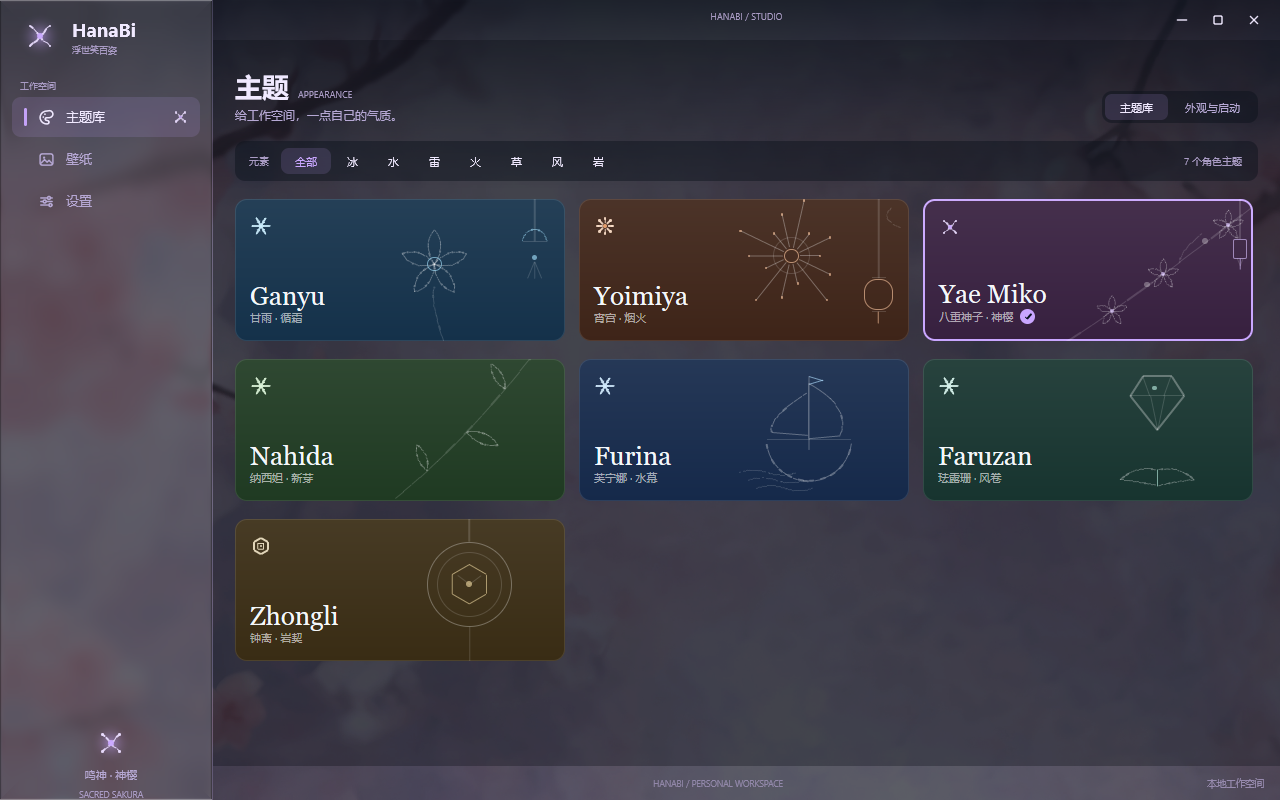
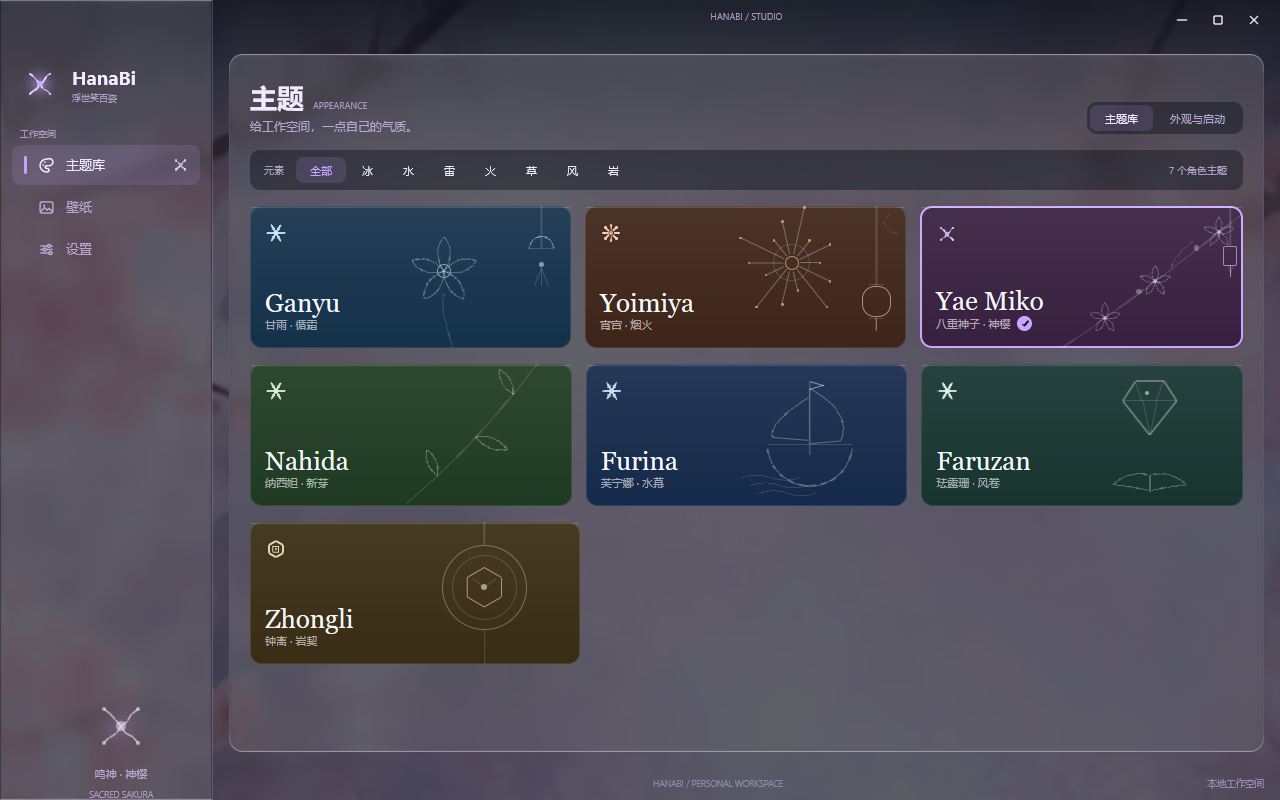
甘雨主题布局打磨第三轮：
- 侧栏比例按参考图重排：品牌区下移（顶部留白 16→64，约占窗口高 8.5%），
  底部块上移（底部留白 26→46）且标识放大放淡（34→64，参考图里是一枚大的淡色花），
  开场标识停靠点随品牌图标同步 (40,36)→(40,84)。
- 内容区改为圆角玻璃面板（glass.Regular + 描边），壁纸在面板四周露出；
  标题、筛选条、卡片都落在面板上，替代原来整片的暗色罩。
- 卡片顶部内侧加 1px 高光亮线（参考图里"卡片是实体"的质感来源）。

diff --git a/internal/view/app.go b/internal/view/app.go
@@ -146,6 +146,16 @@ func (a *App) elementMark(c *ui.Context, size float32) {
 	})
 }
 
+// elementMarkSoft 底部的大标识：参考图里是一枚很淡的花形线稿，
+// 不抢戏——只有淡淡的辉光和半透明线条。
+func (a *App) elementMarkSoft(c *ui.Context, size float32) {
+	ui.Row(c).Width(size).Height(size).Draw(func(p *ui.Painter, r ui.Rect) {
+		cx, cy := r.X+r.W/2, r.Y+r.H/2
+		glow(p, cx, cy, size*0.52, a.tok.Accent, 0.22)
+		glyph(p, a.char.Motif, cx, cy, size*0.38, a.tok.Text, 0.55, 0)
+	})
+}
+
 // sidebar 左侧栏：品牌（元素标识 + 名称）→ 分组标签 → 菜单 → 底部当前角色。
 func (a *App) sidebar(c *ui.Context) {
 	col := ui.Column(c).Width(212)
@@ -153,7 +163,8 @@ func (a *App) sidebar(c *ui.Context) {
 	// 上菜单文字会糊。Clarity 0.15 保留一点通透，但足够托住文字。
 	col.Material(glass.Glass{Style: glass.Regular, Clarity: 0.15})
 	col.Children(func() {
-		ui.Row(c).Padding(16, 12, 10, 20).Gap(12).AlignItems(ui.Center).Children(func() {
+		// 品牌区不贴顶：参考图里图标顶部约占窗口高 8.5%，按 800 高折算约 64px。
+		ui.Row(c).Padding(64, 12, 10, 20).Gap(12).AlignItems(ui.Center).Children(func() {
 			a.elementMark(c, 40)
 			ui.Column(c).Gap(1).Children(func() {
 				ui.Text(c, "HanaBi").FontSize(19).Bold().TextColor(a.tok.Text)
@@ -173,9 +184,10 @@ func (a *App) sidebar(c *ui.Context) {
 
 		ui.Spacer(c)
 
-		// 底部：元素标识 + 身份信息，整体水平居中（参考图里就是居中两行）。
-		ui.Column(c).AlignItems(ui.Center).Gap(7).Padding(0, 16, 0, 26).Children(func() {
-			a.elementMark(c, 34)
+		// 底部：一枚较大的淡色元素标识 + 场景名，整体居中；下缘距窗口底约 6%
+		// （参考图量出来的比例），所以底部留白比菜单侧的 padding 大。
+		ui.Column(c).AlignItems(ui.Center).Gap(8).Padding(0, 16, 0, 46).Children(func() {
+			a.elementMarkSoft(c, 64)
 			ui.Text(c, a.char.Scene).FontSize(11).TextColor(a.tok.TextMuted)
 			ui.Text(c, a.char.SceneEN).FontSize(8.5).TextColor(a.tok.TextFaint)
 		})
@@ -269,28 +281,29 @@ func (a *App) winButton(c *ui.Context, icon *ui.SVG, tip string, action func()) 
 	})
 }
 
-// content 内容区：按当前页分发。
+// content 内容区：一块圆角玻璃面板浮在壁纸上，四周留出壁纸的边缘。
 //
-// 整块内容区压一层很淡的暗色：壁纸在这里是最花的一段，标题、筛选条、
-// 卡片说明都直接压在上面，不压一层的话浅色壁纸会把文字吃掉。
+// 之前是整片内容区直接压一层暗色——壁纸从头露到尾，标题和筛选条都泡在
+// 图片里。改成面板后壁纸只在四周和缝隙里透出，文字全部落在面板上。
 // 内容套在 Scroll 里：主题超出可视高度时纵向滚动（状态栏才不会被顶出窗口）。
 func (a *App) content(c *ui.Context) {
-	ui.Column(c).Grow(1).Clip().
-		Draw(func(p *ui.Painter, r ui.Rect) {
-			p.Fill(r, ui.RGBA(6, 11, 18, 0.30), 0)
-		}).
-		Children(func() {
-			ui.Scroll(c).Grow(1).Children(func() {
-				ui.Column(c).Padding(28, 22).Gap(18).Children(func() {
-					switch a.page {
-					case "library":
-						a.libraryPage(c)
-					default:
-						a.placeholderPage(c)
-					}
+	ui.Column(c).Grow(1).Padding(14, 16, 14, 16).Children(func() {
+		ui.Column(c).Grow(1).Radius(14).
+			Material(glass.Glass{Style: glass.Regular, Clarity: 0.12}).
+			Border(1, a.tok.CardStroke).
+			Children(func() {
+				ui.Scroll(c).Grow(1).Children(func() {
+					ui.Column(c).Padding(24, 20).Gap(16).Children(func() {
+						switch a.page {
+						case "library":
+							a.libraryPage(c)
+						default:
+							a.placeholderPage(c)
+						}
+					})
 				})
 			})
-		})
+	})
 }
 
 // statusbar 内容区底部：中间一行品牌小字，右侧是工作空间状态。

diff --git a/internal/view/library.go b/internal/view/library.go
@@ -136,6 +136,10 @@ func (a *App) characterCard(c *ui.Context, ch theme.Character) {
 			To:    ui.Transparent,
 			Angle: 180,
 		}, a.tok.Radius)
+		// 顶部内侧 1px 亮线：参考图里每张卡片上缘都有一条细细的高光，
+		// 是「卡片是实体」这个质感的重要来源。
+		p.Fill(ui.Rect{X: r.X + 1, Y: r.Y + 1, W: r.W - 2, H: 1},
+			ui.RGBA(255, 255, 255, 0.16), 0)
 		// 线稿画在右半区，越出卡片的部分由圆角裁掉。
 		p.Clip(r, a.tok.Radius, func() {
 			cardArt(p, ch.Art, ui.Rect{X: r.X + r.W*0.38, Y: r.Y, W: r.W * 0.66, H: r.H},
